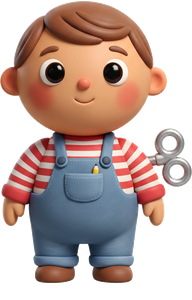
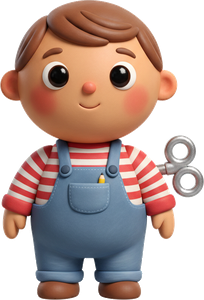
fabrica: mascote parava de tremer - camadas de falar/piscar refeitas EDITANDO a pose parada (77% -> 2,8% e 4,5% de mudanca no corpo) + memoria

diff --git a/MEMORIA-DO-PROJETO.md b/MEMORIA-DO-PROJETO.md
@@ -3107,3 +3107,48 @@ Veio junto no clone do motor e ninguém tinha percebido. Nos PCs fracos da escol
 isso significa cada imagem aparecendo com atraso na primeira vez. Corrigido nas
 duas. **Ao clonar um motor, o `var IMGS=[...]` é conteúdo, não motor** — trocar
 junto com o `DOM` e o `VOZOK`.
+
+## 😬 O MASCOTE TREMIA AO FALAR E PISCAR — e por quê (Marcos, ago/2026)
+
+Palavras dele: *"ao falar ou piscar o mascote se treme todo, não deveria"*. Na
+rodada anterior eu tinha suavizado o giro do flutuar e achado que era isso.
+**Não era.** Fui medir e o número não deixou dúvida.
+
+**A causa:** o mascote são TRÊS imagens empilhadas (parado / falando / piscando)
+e o motor faz o cruzamento delas ~60 vezes por segundo para o lip-sync. Eu gerei
+as três **do zero**, em três prompts separados — e a IA devolve **três desenhos
+diferentes**, por mais que o prompt diga "exatamente igual". Na Fábrica, a pose
+de piscar veio até com **outro tom de pele e outro cabelo**. Cruzar isso a 60fps
+não anima a boca: **morfa o boneco inteiro**.
+
+**A medida que denuncia** — quantos % dos pixels do corpo mudam entre a pose
+parada e cada outra:
+
+| atividade | falar | piscar |
+|---|---|---|
+| Legenda do Clique | 1% | 2% |
+| Jardim do Broto | 2% | 7% |
+| Doceria do Cacau | 6% | 5% |
+| Observatório do Órbi | 8% | 3% |
+| **Fábrica (errada)** | **77%** | **78%** |
+
+As outras quatro estavam boas porque nasceram de EDIÇÃO da pose parada. A Fábrica
+foi a única que eu fiz do zero — erro meu, e o Marcos viu na tela antes de
+qualquer auditor meu ver.
+
+### ⭐ REGRA NOVA (não negociável)
+**As poses de FALAR e PISCAR nunca se geram do zero.** Geram-se EDITANDO a pose
+parada, com o `gerar-imagens.yml`: `modelo=gemini` + `base=_novo/<mascote>_base.png`,
+pedindo para mudar SÓ a boca (ou só os olhos) e mais nada. Funcionou de primeira:
+caiu de **77% para 2,8%** (falar) e **4,5%** (piscar). Depois recortar as três com
+a **mesma bbox** (senão a imagem pula ao trocar de camada).
+
+### 🕵 AUDITOR NOVO — `_qa/mascote.py` (portão **3d** da banca)
+Mede essa porcentagem e reprova acima de **15%**. Também reprova camada com
+tamanho diferente da parada. Testado: reprova a Fábrica velha e aprova as outras
+quatro — ou seja, o limiar está calibrado na realidade do projeto, não no chute.
+
+**Lição maior:** a IA não obedece "mantenha exatamente igual" quando gera do
+zero. Quando duas imagens precisam ser o MESMO desenho, o caminho é **editar**,
+nunca **regerar** — e depois **medir**, porque no print parado as três parecem
+iguais; o defeito só existe em movimento.
